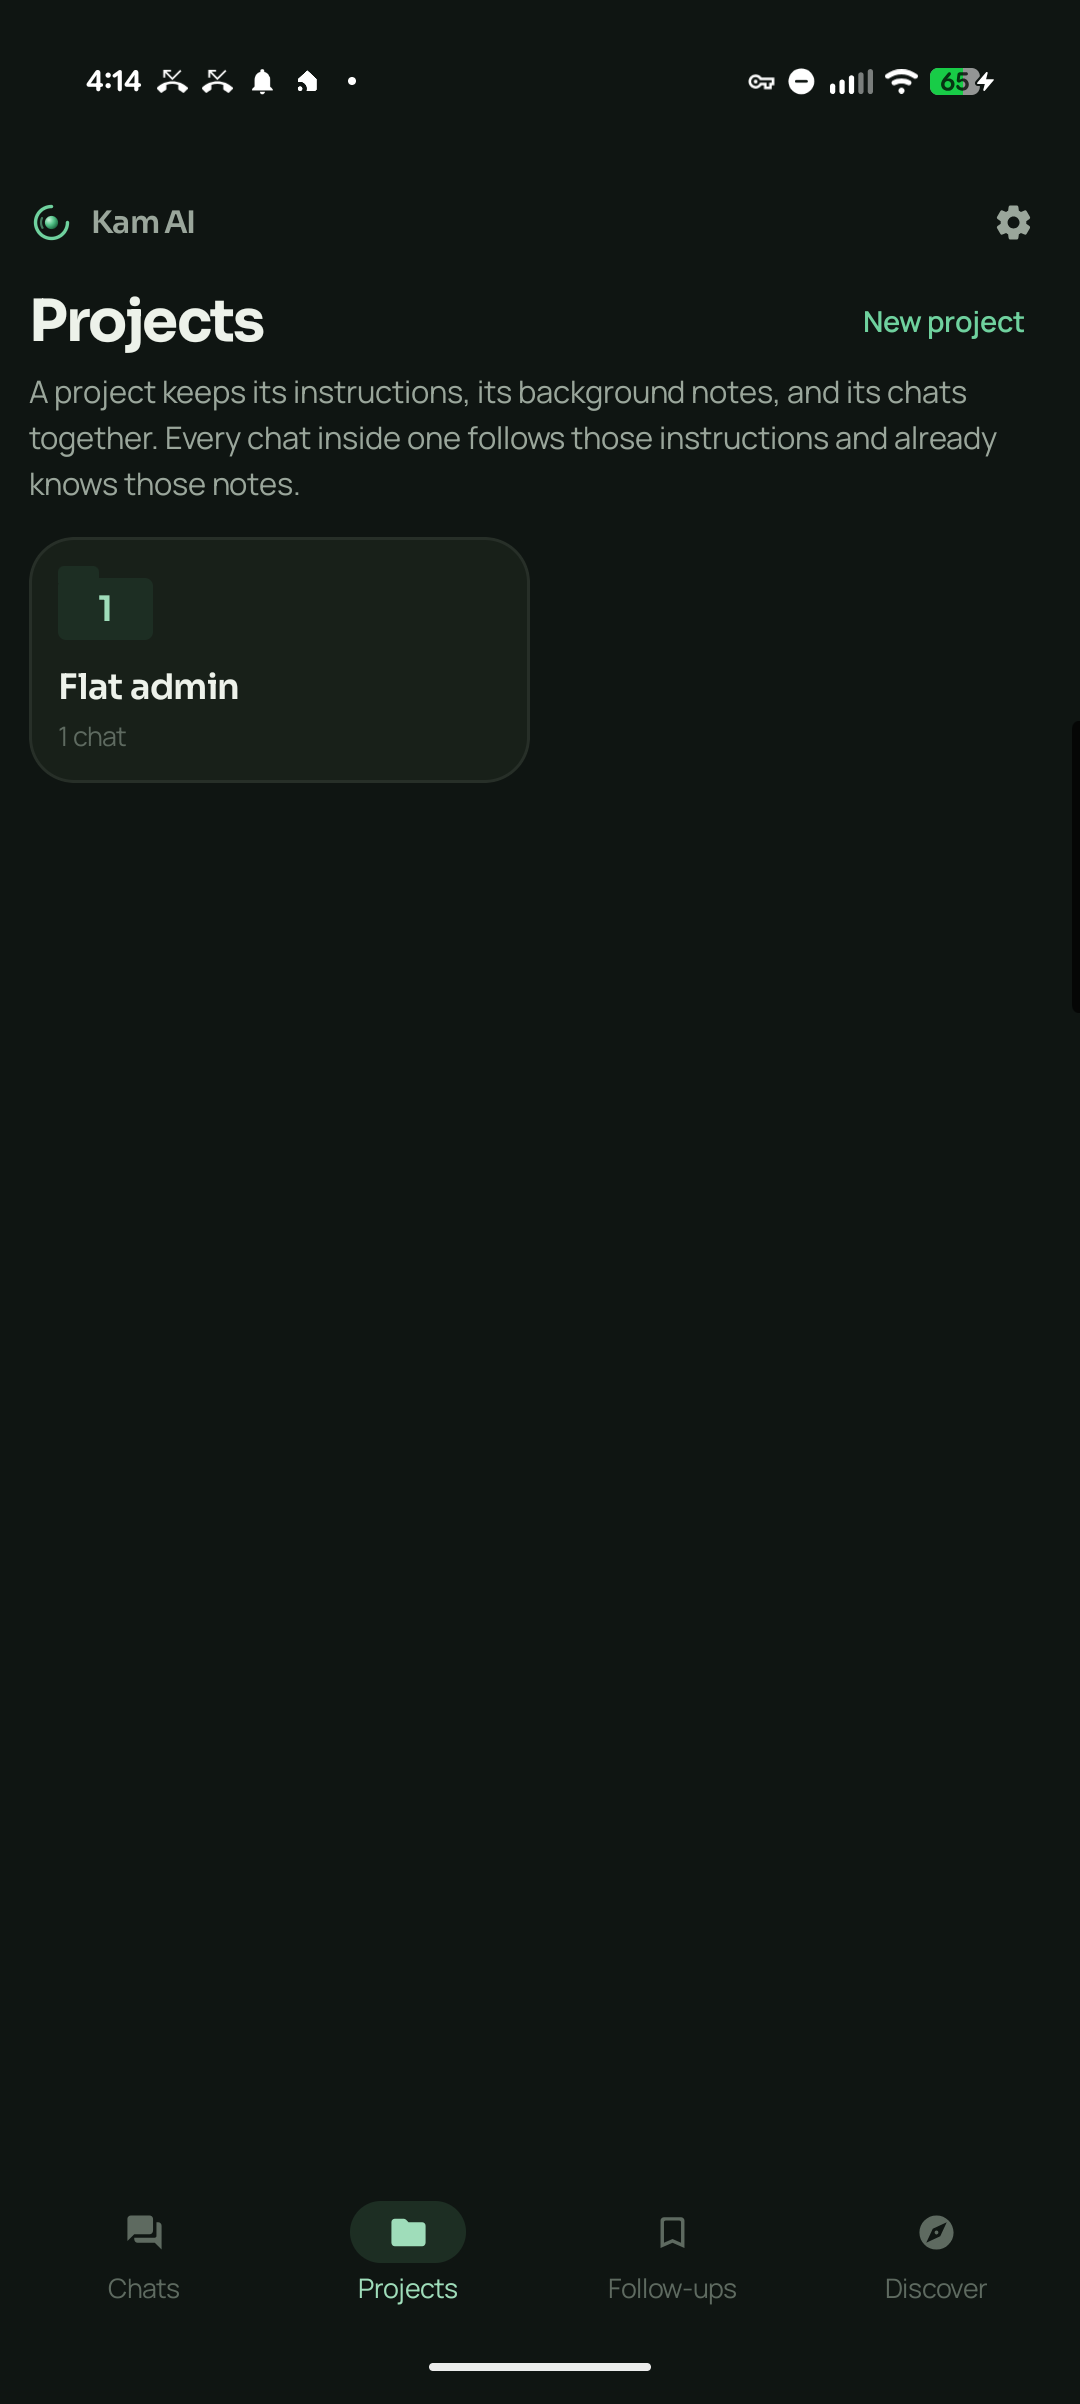
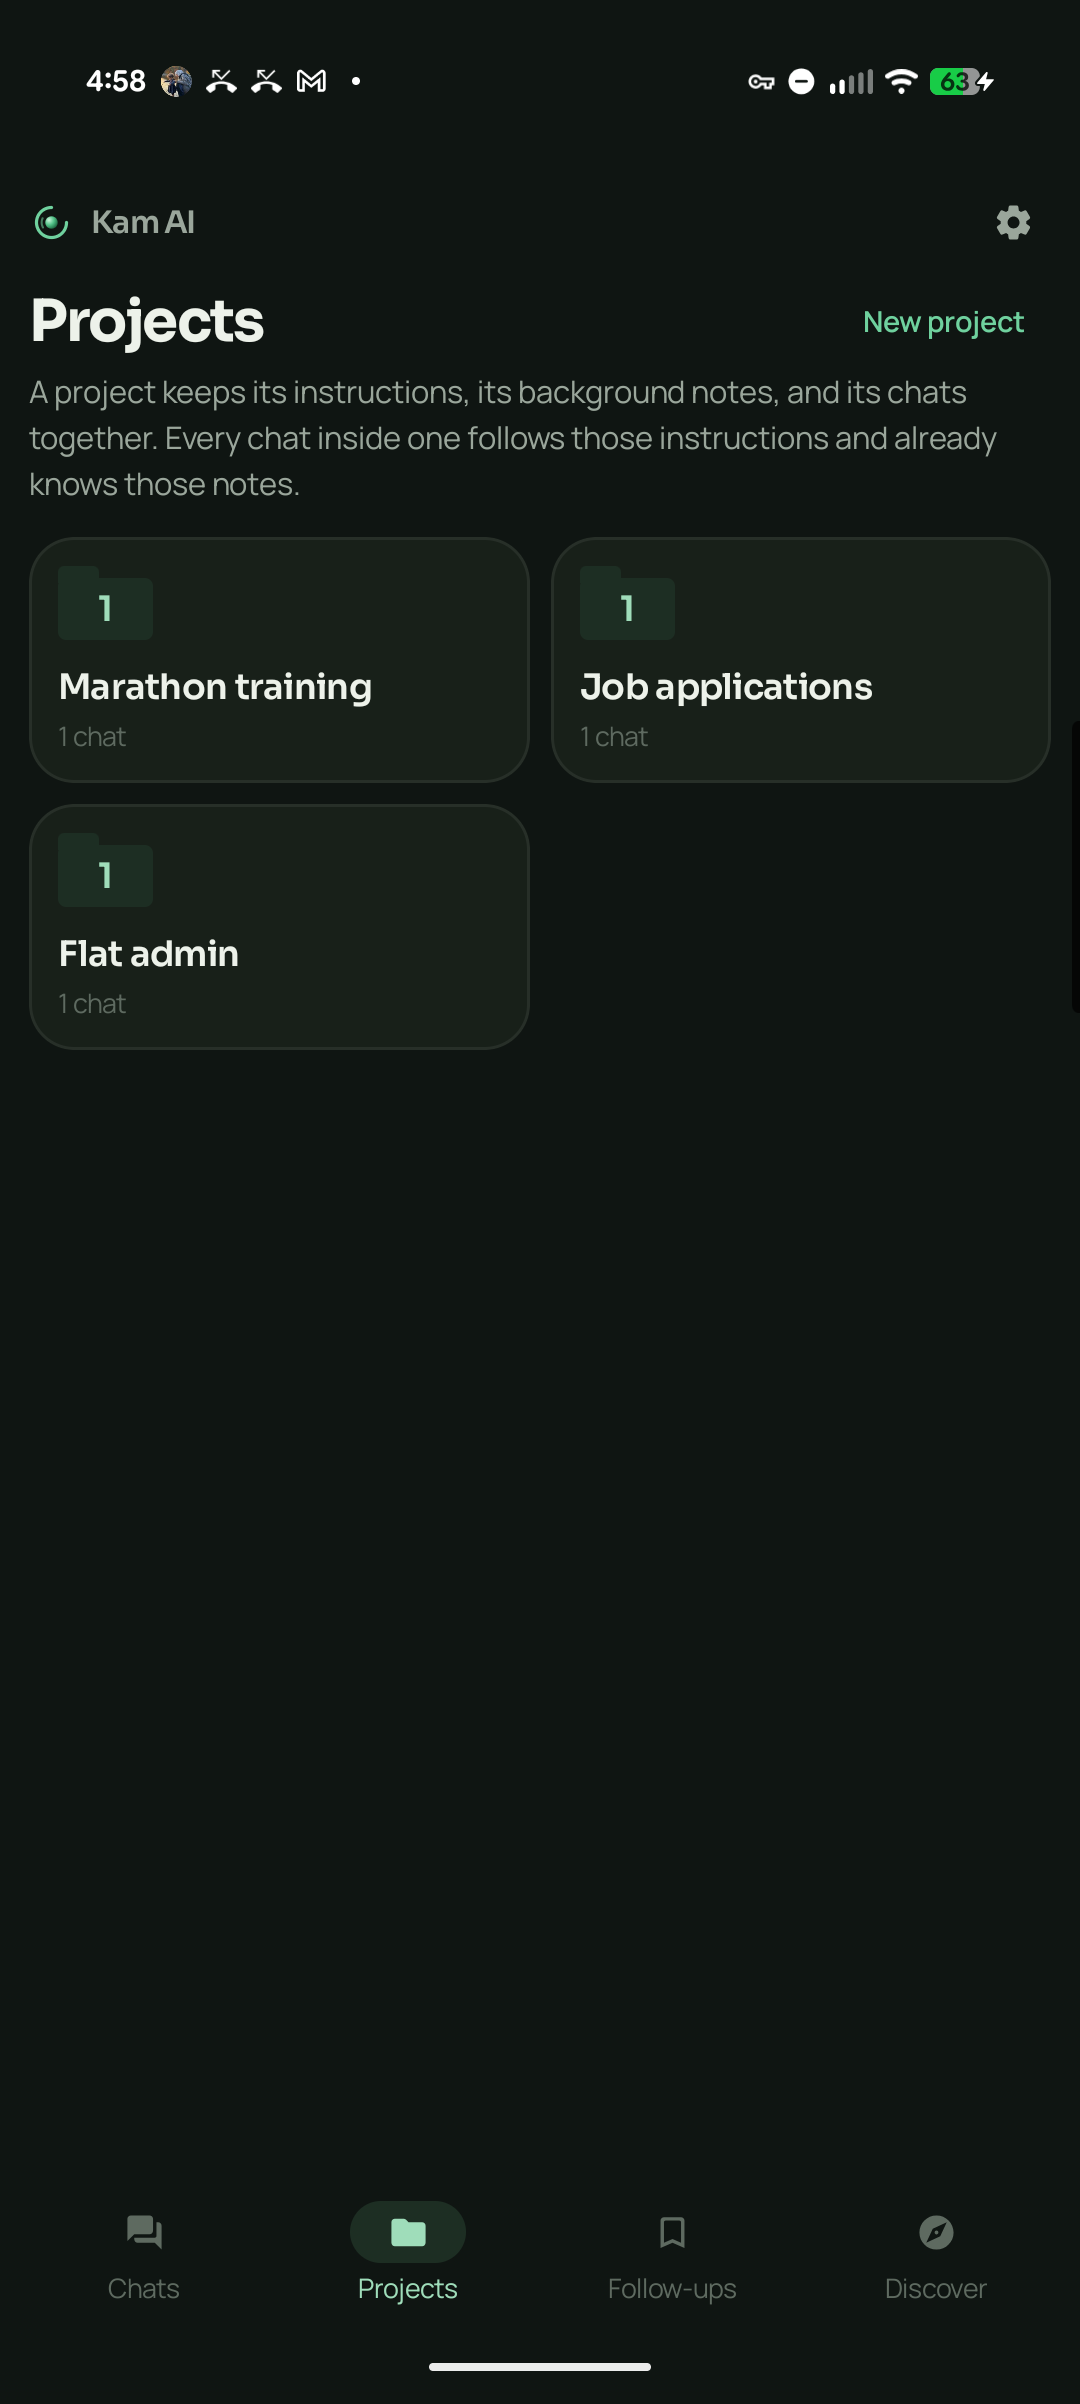
Rewrite the store listing and fill all eight screenshot slots
The description was true but read defensively: it opened on mechanism, buried
the modes in prose, and ran three "what it is not good at" passages together.
Same claims, restructured so somebody scanning it can find the four modes, and
with each mode given its own line instead of a shared paragraph. Nothing new is
promised. The limits are all still there, moved under one heading where they
read as confidence rather than apology.

"data centre" was a British spelling sitting in the live store text. Fixed.

Short description now leads with the positioning line rather than a list of
absences, and is 72 characters against the 80 the Console allows.

Eight screenshots, which is what Play allows and what was asked for. The run
is: what it is, how it is organized, one frame per mode because the modes are
the whole idea, then the two things that bring somebody back, then the promise
about their data. The model screen and follow-ups were cut, and the reasons are
in the script rather than lost: the model screen answers a question nobody has
before installing, and a list of two saved answers does not read as a reason to
install.

Two frames were weak and are now not. Workbench was an empty state, so a slot
showed a feature doing nothing; it now carries a real before and after, forty
words of padding down to one sentence. Projects had a single card in a field of
whitespace; it has three.

That turned up a correction worth more than the frames. Running a change in
[…]

diff --git a/HANDOFF.md b/HANDOFF.md
@@ -134,7 +134,7 @@ conversation is newest decides what three frames show. Seed order would have put
 chats at the top and the wrong mode in two frames. **If the list is ever reseeded, check that
 before capturing.**
 
-**Steps 4 to 6.** All twenty frames read individually, both themes, then the five listing frames
+**Steps 4 to 6.** All twenty frames read individually, both themes, then the listing frames
 read again after cropping, because the crop changes both edges. The half-visible row at the foot
 of the Settings frame is "Open with the power button. Set up. Long-press power to ask", which
 reads true. `discover-light` and `discover-dark` show different passages because Discover deals at
@@ -151,10 +151,14 @@ their directory first, and git shows twenty and five files all modified, none ad
 
 **Two harness lessons that will cost an hour if rediscovered:**
 
-- **Workbench is not a conversation.** It is its own screen with its input in the `workbench.input`
-  setting, and its composer sits close enough to a chat's that `say.sh` types into it and waits out
-  a real generation. The first seeding run reported eight of nine with the eighth having produced
-  nothing. It is out of `seed_chats.sh` now, and the Workbench frame comes from the screen itself.
+- **Workbench cannot be seeded like a chat, but it does make conversations.** Its input is the
+  `workbench.input` setting rather than a chat, and its send button is nowhere near a chat
+  composer's, so `say.sh` types into the box and its send tap lands on nothing. The first seeding
+  run reported eight of nine with the eighth having produced no conversation at all.
+  **Corrected later the same day:** running an actual change from the Workbench screen *does*
+  create a conversation, and it appears in the chat list with the gold Workbench dot. An earlier
+  version of this file said Workbench never lands in the list, and that was wrong. It is still out
+  of `seed_chats.sh`, because the way to drive it is the chips and not the composer.
 - **A finished generation is not a conversation.** `say.sh` returned success for a Brainstorm seed
   that ended up with a user message and no reply. Count the list on the device; the script cannot.
 
@@ -330,9 +334,9 @@ Steps 1 to 4 are preparation and cost nothing. **Step 5 is the irreversible one.
    the phone, but take a fresh one, because the seeded chat list is what is on there now
    and it is the thing you would be destroying.
 
-6. **Upload the five phone screenshots.** `store-assets/phone`, 1080x2224, generated by
-   `tools/make_phone_shots.sh`. Nothing has ever been uploaded to the Console, so no
-   superseded asset can be lingering there.
+6. **Upload the eight phone screenshots.** `store-assets/phone`, 1080x2224, generated by
+   `tools/make_phone_shots.sh`, which is all eight slots Play allows. Nothing has ever been
+   uploaded to the Console, so no superseded asset can be lingering there.
 
 7. **Transcribe the Play Console items that have no API.** Category, privacy policy URL,
    the data safety form, the content rating questionnaire, the ads declaration, target
